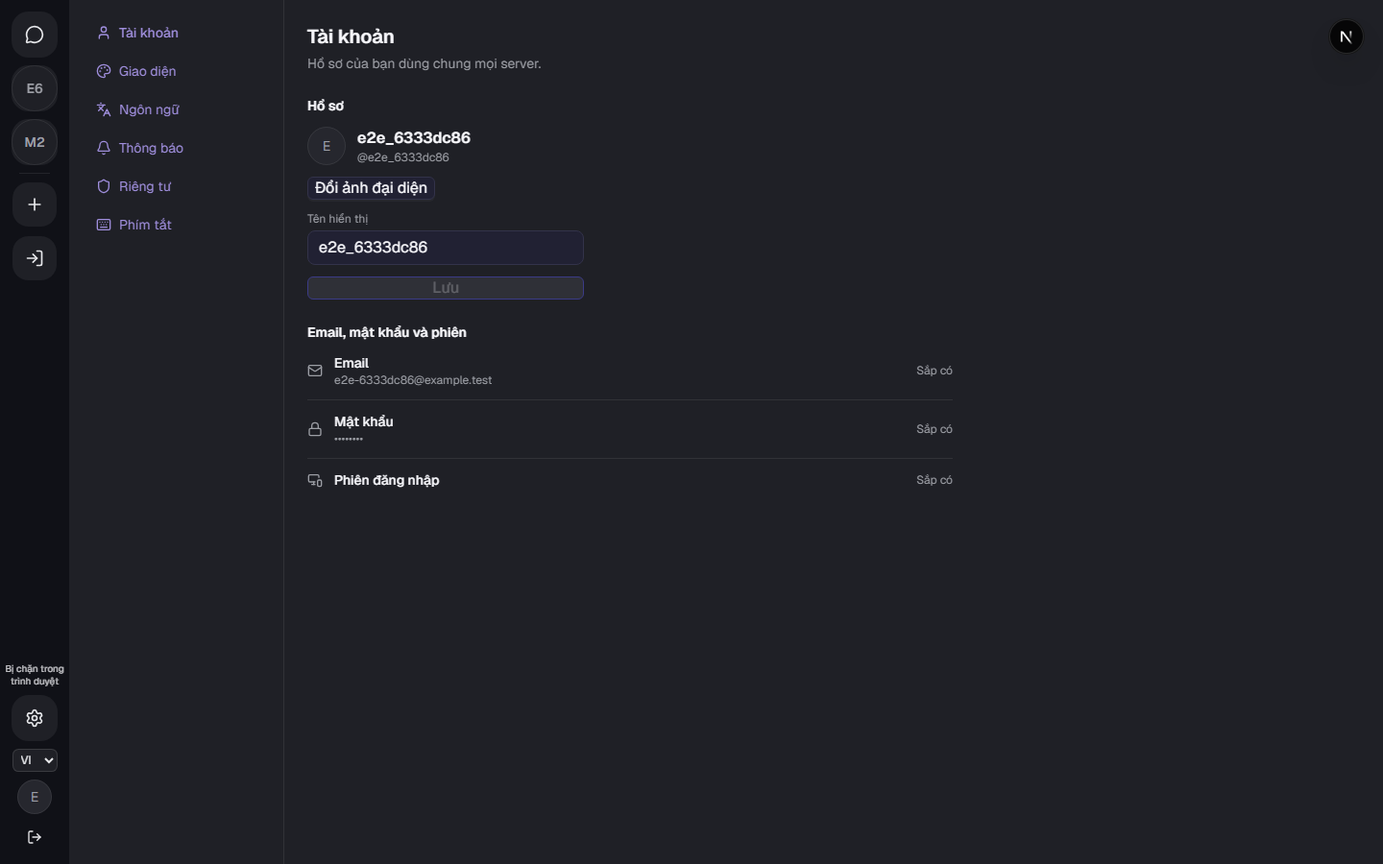
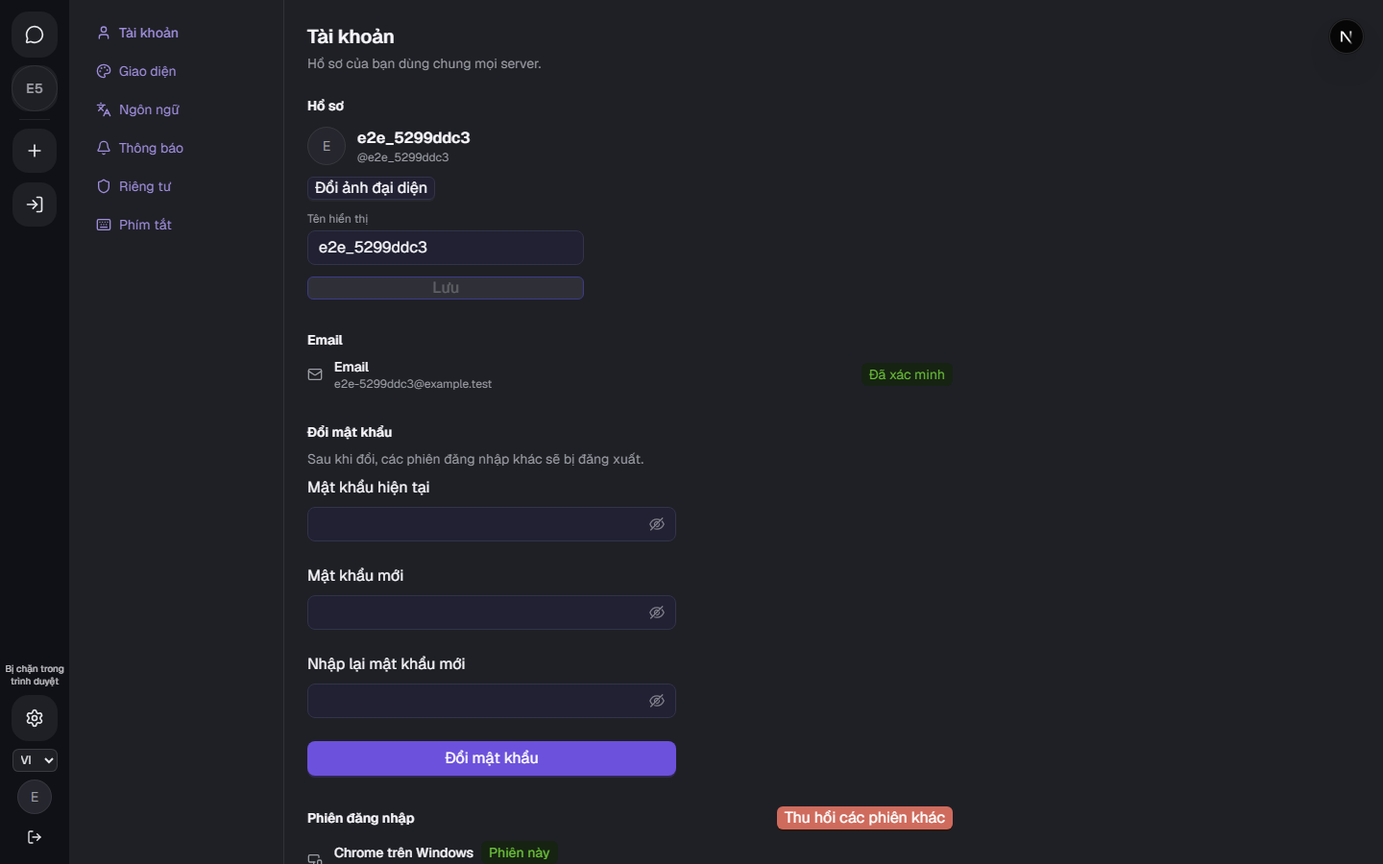
docs(v0.2.0): evidence TG.8 + status — vòng đời tài khoản trọn (TG.8)

diff --git a/docs/v0.2.0/status.md b/docs/v0.2.0/status.md
@@ -67,5 +67,6 @@ Pha 5 (dev, Qdrant local, embedding cục bộ) → Pha 6 (phần không cần s
 | TG.24 | done | `feat/tg24-custom-emoji` / PR nháp local | `0064313`…`2743908` (5 commit); base `e6d7c27` | [TG.24](evidence/TG.24/README.md) | ADR-0068 OWNER duyệt trong phiên 2026-10-28, triển khai trọn trong phiên. Đã giao: model `CustomEmoji` (tên `[a-z0-9_]{2,32}`, `animated`, attachmentId unique, soft-delete) + migration expand `20261028151128_tg24_custom_emoji` in sync; scope upload `'customEmoji'` (256 KiB, kiểm định ≤128×128, kiểm định tham số hóa `validateImageFile` dùng chung với sticker); bit `MANAGE_EXPRESSIONS` tái dùng qua subject `Sticker`; `POST/GET /servers/:id/emojis` + `DELETE /emojis/:emojiId` (guard tra server qua `:emojiId`): trần **50 tĩnh + 50 động** advisory lock `emoji-server:<id>`, cờ `animated` suy từ metadata sharp của tệp `.ready` (`pages > 1`) tại claim — không cần cột mới, idempotent theo attachmentId, audit `EMOJI_DELETE`, phát hành tệp khi xóa; gửi tin trích token `:ten:<id>` (token sống nhưng khác server → 400 IDOR; đã xóa/bịa → 201 render placeholder), reaction token gọn `c:<id>` validate trong transaction (`REACTION_EMOJI_INVALID`); event `expressions.updated` gộp cho emoji + sticker (hai tab tự đồng bộ). Web: `features/emojis` (useEmojiMap, useEmojiEvents invalidate emojis+stickers), parser TG.4 node `customEmoji` (nhóm token đặt TRƯỚC shortcode, token trong inline code giữ nguyên), render img 20px ưu tiên previewUrl / chip mờ `:name:`, EmojiPicker tab "Của server" + gợi ý gộp + reaction pill ảnh, quản trị khối Emoji (upload, tên prefill từ tệp, xóa Popconfirm), i18n vi/en. Kiểm chứng: shared 54/54, api unit 209/209, web unit 213/213, API e2e **298/298 (36 file)** gồm emojis 10/10 + IDOR **45 route** (42→45, thêm 2 đòn), web e2e **45 pass/1 skip không fail** (emoji-custom 3/3 × 2 lần liên tiếp), lint/format/typecheck/build/bundle **246,4 KB**, docs:check; 3 ảnh evidence (picker, tin render, quản trị). Học được: tên có `-` cố tình không nhận (gãy pattern token); hàng `Attachment` ready mồ côi trong DB dev chiếm mãi `runOnce()` của worker — nợ nhỏ: orphan rule nên có điều kiện `boundAt`. Merge `--no-ff` `b093d7a` vào main, đã push (OWNER duyệt trong phiên 2026-10-29); **CI main 12/12 job xanh** trên `b093d7a` (run `40732485892`). |
 | TG.25 | done | `feat/tg25-gifs` / PR nháp local | `0cfcaad`…`8a89397` (7 commit); base `b093d7a` | [TG.25](evidence/TG.25/README.md) | ADR-0069 OWNER duyệt trong phiên 2026-10-29 (trước khi ngủ, OWNER ủy quyền tổng: "tự viết plan rồi tự duyệt đi coi như tôi duyệt... cho phép merge, push luôn" — mọi quyết định vẫn ghi vết đầy đủ). Đã giao: Tenor API v2 sau cổng `GifProvider` (key `TENOR_API_KEY` optional theo pattern GROQ; `contentfilter=high` ghim cứng; timeout 10 s; key không lọt message lỗi); `GET /gifs/search` + `/gifs/trending` (JWT, không ability mới, cache in-memory TTL 5 phút ≤200 entry, lỗi không cache; rate limit 30 req/phút/user tái dùng pattern MessageRateLimiter); thiếu key/lỗi/quota → 503 `GIF_PROVIDER_UNAVAILABLE` (mã mới), picker empty state, chat không ảnh hưởng; tin `kind='gif'` = 4 cột nullable trên Message (`gifUrl/gifWidth/gifHeight/gifProvider`) chốt lúc gửi, không bảng Gif, không attachment, content rỗng, chặn sửa tin, outbox/realtime kèm preview; schema gửi ràng buộc **https + host allowlist** (`media.tenor.com`) — test bắt được refine đầu chỉ kiểm host (nhận `http://`), đã vá; CSP `img-src` thêm đúng `https://media.tenor.com` (không wildcard), xác minh trên **build production** (quy tắc 18, security-headers + gif.spec 3/3); web: tab "GIF" thứ 4 trong sticker-picker (debounce 300 ms, lưới aspect-ratio, IntersectionObserver lazy, reduced-motion giữ chỗ bấm-mới-phát, gần đây localStorage 24 mục theo user, ghi công "GIFs by Tenor", empty state 503 riêng), render tin gif aspect-ratio + khung lỗi `gif-broken`, optimistic + retry giữ gifId; i18n vi/en. **Bug thật vá trong phiên (`8a89397`)**: nhánh mồ côi worker khớp avatar/icon 'ready' vĩnh viễn (không bao giờ có messageId) → claim lại mỗi tick + trừ quotaBytes vô hạn + đói hàng đợi upload (nợ TG.22 đến hạn) — vá: mồ côi theo tuổi chỉ áp dụng scope message; canari đỏ 3 lần → xanh. Kiểm chứng: shared 58/58, api unit 222/222, web unit 217/217, API e2e **307/307 (37 file)** gồm gifs 9/9 (thiếu key 503, DI override fake + cache hit, rate limit lượt 31 → 429, host lạ 400, sửa tin 400), web e2e 44 pass + 1 skip (3 fail do ô nhiễm DB từ run chết trong phiên — xanh khi chạy riêng, tiền lệ TG.22; CI DB mới phán quyết), bundle **246,9 KB ≤ 450 KB**, lint/format/typecheck/docs pass. Học vận hành (ghi evidence): web e2e không shard song song (429 login); không build/suite khác song song với e2e trên dev stack (build đè `.next`/dist). Merge `--no-ff` `300441f` vào main, đã push (theo ủy quyền); **CI main 12/12 job xanh** trên `300441f` (run `40756063328`). |
 | TG.9 | done | `feat/tg9-dm` / PR nháp local | `cc18a79`…`036d313` (5 commit); base `300441f` | [TG.9](evidence/TG.9/README.md) | ADR-0070 duyệt theo ủy quyền OWNER 2026-10-29 (số ADR lệch plan: pre-assign 0052, theo luật plan:240 đánh 0070). Đã giao: migration expand (ChannelType +DM, Channel.serverId nullable + `dmKey` unique chuẩn hóa cặp min|max, `DmParticipant` mang luôn read-state — phát hiện quan trọng: không tồn tại ChannelMember để tái dùng, `UserBlock`, `User.dmAllow` 2 mức); `POST /dms` get-or-create idempotent (chung server 1 truy vấn EXISTS, P2002 song song → existing luôn 200), cap **10 DM mới/giờ/user** đếm DB → 429; `GET /dms` 1 raw query (partner + unread cap 100 + lastMessageAt); block/unblock idempotent `POST/DELETE /users/:userId/block`; **AbilityGuard refactor resolveContext (server/dm/profile/none)**: channel DM → participant, người ngoài **404 che tồn tại**, participant nhận `defineDmAbilityFor` (bổ sung shared — hai participant ngang hàng, cố ý không MANAGE_MESSAGES); **bịt lỗ IDOR attachment serverId NULL** (ADR đích danh — trước đây trả null bỏ qua kiểm); tin trong DM: UserBlock chặn tin mới 403 `DM_BLOCKED` (một mã chung chống dò), sticker 400, token custom emoji 400 tường minh, GIF + attachment OK, mention/pin-audit skip; realtime joinChannel nhánh DM + badge qua `emitToUser` với `ChannelActivity serverId: null` (shared mở nullable); markRead ghi `DmParticipant.lastReadMessageId`; **indexer AI skip serverId NULL** (FTS/RAG đã scope server sẵn); `PATCH /users/me/privacy` tách endpoint giữ hợp đồng TG.7. Web: route riêng `/dms(/:channelId)(/messages/:messageId)` (mirror permalink TG.5), MessagePane tái dùng qua `DmAbilityProvider` (rút rule create Message khi bị chặn → composer tắt), rail mục DM + badge mention-style realtime, profile card bật "Nhắn tin" + Chặn/Bỏ chặn, banner bị chặn role=status, ẩn sticker trong DM, i18n vi/en. IDOR 47 route (+2 block). Kiểm chứng: shared 61/61, api unit 238/238, web unit 221/221, API e2e dms **13/13 × 2**, web e2e dm **1/1 × 3**; full-suite + bundle: API e2e **320/320 (38 file, 175 s)**, web e2e **45 pass + 1 skip** (3 fail do ô nhiễm DB dev — xanh khi chạy riêng, tiền lệ TG.22/25; CI DB mới phán quyết), bundle **247,1 KB ≤ 450 KB**. Lệch chấp nhận (ghi ADR/evidence): `/dms` không vào ID_ROUTES (bảng quét route có `:id` — IDOR DM phủ trong spec riêng); migration tạo bằng `migrate diff` + `deploy` (migrate dev cần TTY). Merge `--no-ff` `e4940c6` vào main, đã push (theo ủy quyền); **CI main 12/12 job xanh** trên `e4940c6` (run `40769536918`). |
-| TG.12 | doing | `feat/tg12-notifications` / PR nháp local | `2588f4e`…`08fcaed` (4 commit); base `e4940c6` | [TG.12](evidence/TG.12/README.md) | Không cần ADR theo plan (cột PR); thiết kế chốt ở hợp đồng shared: mức + mute lưu **phía API** (mute hiệu lực mọi thiết bị — tiêu chí nghiệm thu), âm thanh/quyền Notification là thiết bị-riêng. Đã giao: bảng `NotificationPref` unique (userId, scope, targetId) — không FK target (prefs sống khi target chết, vô hại); `GET/PUT/DELETE /users/me/notification-prefs/{server,channel}/:id` JWT-only user-scoped chặt, upsert không nhân dòng, mutedUntil ISO+offset tròn vẹn; server CHỈ lưu — badge/notification client tính từ `shouldNotify` (hàm thuần shared, none tắt hẳn, mute chặn cả mention, @everyone tùy ignoreEveryone). Web: chuông ở header channel + DM (3 mức + mute 15 phút→24 giờ + toggle "Bỏ qua @everyone" thiết bị), nút xin quyền Notification sau thao tác người dùng ở chân rail, bắn CHỈ khi tab ẩn + shouldNotify (isMention từ event `mention.created` cùng nguồn unread, đếm messageId chống bắn đôi; DM coi như mention-style), gom theo tag channelId, click tới permalink, beep WebAudio mặc định BẬT; badge `document.title = '(N) Ping'` theo tổng unread + DM (ngữ nghĩa đổi từ tổng mention — cập nhật assertion unread-ui) + favicon chấm đỏ canvas. **Bug thật bắt được**: tin mention bị đếm ĐÔI unread (MentionCreated bump trùng channel.activity) — sửa gốc `countsUnread: false`. **Va chạm nhãn thật**: chuông label chứa "Cài đặt" dính strict-mode violation với profile.spec (`getByRole` substring) — đỏ cả khi chạy riêng; vá `08fcaed` đổi nhãn "Thông báo kênh". Server-level UI bỏ qua v0.2 (API hỗ trợ đủ); mức thông báo KHÔNG đổi badge unread (quyết định sản phẩm ghi evidence). Kiểm chứng: shared 65/65, api unit 245/245, web unit 230/230, API e2e prefs 9/9, web e2e notification 4 lần xanh; API e2e full **329/329 (39 file, 181 s)**, web e2e full **46 pass + 1 skip** (profile do va chạm nhãn — vá; 2 còn lại ô nhiễm DB, xanh riêng), bundle **247,4 KB ≤ 450 KB**. IDOR 51 route (+4 prefs). Merge `--no-ff` `5a897bb` vào main, đã push (theo ủy quyền); **CI đỏ lần đầu từ TG.22** (web-e2e shard 3: notification/pin/unread-ui) — nguyên nhân + vá `1c2cc24` ( assertion title tuyệt đối vs tổng unread toàn cục; chi tiết ở evidence TG.13 mục "Hồi quy CI"): CI xanh lại tại merge TG.13. |
-| TG.13 | done | `feat/tg13-settings` / PR nháp local | `9c6d53f`…`f9892bd` (7 commit gồm e2e-fix + mailpit); base `5a897bb` | [TG.13](evidence/TG.13/README.md) | Không cần ADR theo plan nhưng viết [ADR-0071](../adr/0071-user-settings-and-theme-preference.md) (data-theme sửa một phần ADR-0023 — dark không còn chỉ theo OS). Đã giao: `UserSettings` lưu server cột tường minh (theme/density/fontSize/locale), GET lazy không tạo hàng rác, PATCH partial (Prisma 7 không nhận undefined); `GET /users/me/privacy` — **lỗ hổng thật bắt khi review**: TG.9 chỉ có PATCH nên switch dmAllow luôn hiện mặc định sau khi đổi ở thiết bị khác; `GET /users/me/blocks` (TG.9 để thiếu). Web: trang `/settings` 6 mục — Tài khoản (profile thật + placeholder trung thực TG.8), Giao diện (data-theme trên html: dark cưỡng bức nhân bản khối token, light loại khỏi media, system giữ media; mật độ + cỡ chữ qua CSS var), Ngôn ngữ (patch + cookie), Thông báo (gom UI TG.12 + mức server + override + reset), Riêng tư (dmAllow GET/PATCH + danh sách chặn), Phím tắt; entry "Cài đặt cá nhân" ở chân rail (tên riêng tránh va chạm substring — bài học TG.12); SettingsSync sau AuthGate + cache thiết bị giảm FOUC. **Bug thật bắt nhờ ảnh evidence**: segmented theme uncontrolled → controlled; **a11y thật**: antd Segmented itemColor alpha tụt dưới 4.5:1 → vá token trong buildAntdTheme cho cả app. Mailpit vào compose dev cho TG.8. Kiểm chứng: shared 67/67, api unit 254/254 (web agent mở rộng API: +privacy GET, +2 listBlocks), web unit 242/242, API e2e user-settings 9/9, web e2e settings 5 lần xanh + a11y 6 route; API e2e full **338/338 (40 file)**, web e2e full **48 pass + 1 skip, 3 fail đều pass solo** (máy dev chần ngưỡng tài nguyên ở full suite 30 phút — pattern TG.9/12; CI DB mới + prod build là phán quyết), bundle **247,5 KB ≤ 450 KB**. Hồi quy CI 5a897bb (TG.12) đã vá `1c2cc24` — chi tiết evidence TG.13. Bài học vận hành lớn: cấm commit/build khi e2e chạy (lint-staged đụng mtime src → nest watch restart API); cạn process Windows (spawnSync cmd.exe UNKNOWN) sau 2h+ spawn node/browser là nguồn 14-fail hàng loạt — dọn zombie + restart stack trước khi lần chạy quyết định. |
+| TG.12 | doing | `feat/tg12-notifications` / PR nháp local | `2588f4e`…`08fcaed` (4 commit); base `e4940c6` | [TG.12](evidence/TG.12/README.md) | Không cần ADR theo plan (cột PR); thiết kế chốt ở hợp đồng shared: mức + mute lưu **phía API** (mute hiệu lực mọi thiết bị — tiêu chí nghiệm thu), âm thanh/quyền Notification là thiết bị-riêng. Đã giao: bảng `NotificationPref` unique (userId, scope, targetId) — không FK target (prefs sống khi target chết, vô hại); `GET/PUT/DELETE /users/me/notification-prefs/{server,channel}/:id` JWT-only user-scoped chặt, upsert không nhân dòng, mutedUntil ISO+offset tròn vẹn; server CHỈ lưu — badge/notification client tính từ `shouldNotify` (hàm thuần shared, none tắt hẳn, mute chặn cả mention, @everyone tùy ignoreEveryone). Web: chuông ở header channel + DM (3 mức + mute 15 phút→24 giờ + toggle "Bỏ qua @everyone" thiết bị), nút xin quyền Notification sau thao tác người dùng ở chân rail, bắn CHỈ khi tab ẩn + shouldNotify (isMention từ event `mention.created` cùng nguồn unread, đếm messageId chống bắn đôi; DM coi như mention-style), gom theo tag channelId, click tới permalink, beep WebAudio mặc định BẬT; badge `document.title = '(N) Ping'` theo tổng unread + DM (ngữ nghĩa đổi từ tổng mention — cập nhật assertion unread-ui) + favicon chấm đỏ canvas. **Bug thật bắt được**: tin mention bị đếm ĐÔI unread (MentionCreated bump trùng channel.activity) — sửa gốc `countsUnread: false`. **Va chạm nhãn thật**: chuông label chứa "Cài đặt" dính strict-mode violation với profile.spec (`getByRole` substring) — đỏ cả khi chạy riêng; vá `08fcaed` đổi nhãn "Thông báo kênh". Server-level UI bỏ qua v0.2 (API hỗ trợ đủ); mức thông báo KHÔNG đổi badge unread (quyết định sản phẩm ghi evidence). Kiểm chứng: shared 65/65, api unit 245/245, web unit 230/230, API e2e prefs 9/9, web e2e notification 4 lần xanh; API e2e full **329/329 (39 file, 181 s)**, web e2e full **46 pass + 1 skip** (profile do va chạm nhãn — vá; 2 còn lại ô nhiễm DB, xanh riêng), bundle **247,4 KB ≤ 450 KB**. IDOR 51 route (+4 prefs). Merge `--no-ff` `5a897bb` vào main, đã push (theo ủy quyền); **CI đỏ lần đầu từ TG.22** (web-e2e shard 3: notification/pin/unread-ui) — nguyên nhân + vá `1c2cc24` ( assertion title tuyệt đối vs tổng unread toàn cục; chi tiết ở evidence TG.13 mục "Hồi quy CI"): merge TG.13 (`263e88c`) CI vẫn đỏ nhưng DO 2 lý do khác (drills: healthcheck Mailpit của tôi dùng bash trên image Alpine; permalink: cả cửa sổ đo nhiễu hệ thống) — cả hai đã vá `e335128` đi kèm merge TG.8. |
+| TG.13 | done | `feat/tg13-settings` / PR nháp local | `9c6d53f`…`f9892bd` (7 commit gồm e2e-fix + mailpit); base `5a897bb` | [TG.13](evidence/TG.13/README.md) | Không cần ADR theo plan nhưng viết [ADR-0071](../adr/0071-user-settings-and-theme-preference.md) (data-theme sửa một phần ADR-0023 — dark không còn chỉ theo OS). Đã giao: `UserSettings` lưu server cột tường minh (theme/density/fontSize/locale), GET lazy không tạo hàng rác, PATCH partial (Prisma 7 không nhận undefined); `GET /users/me/privacy` — **lỗ hổng thật bắt khi review**: TG.9 chỉ có PATCH nên switch dmAllow luôn hiện mặc định sau khi đổi ở thiết bị khác; `GET /users/me/blocks` (TG.9 để thiếu). Web: trang `/settings` 6 mục — Tài khoản (profile thật + placeholder trung thực TG.8), Giao diện (data-theme trên html: dark cưỡng bức nhân bản khối token, light loại khỏi media, system giữ media; mật độ + cỡ chữ qua CSS var), Ngôn ngữ (patch + cookie), Thông báo (gom UI TG.12 + mức server + override + reset), Riêng tư (dmAllow GET/PATCH + danh sách chặn), Phím tắt; entry "Cài đặt cá nhân" ở chân rail (tên riêng tránh va chạm substring — bài học TG.12); SettingsSync sau AuthGate + cache thiết bị giảm FOUC. **Bug thật bắt nhờ ảnh evidence**: segmented theme uncontrolled → controlled; **a11y thật**: antd Segmented itemColor alpha tụt dưới 4.5:1 → vá token trong buildAntdTheme cho cả app. Mailpit vào compose dev cho TG.8. Kiểm chứng: shared 67/67, api unit 254/254 (web agent mở rộng API: +privacy GET, +2 listBlocks), web unit 242/242, API e2e user-settings 9/9, web e2e settings 5 lần xanh + a11y 6 route; API e2e full **338/338 (40 file)**, web e2e full **48 pass + 1 skip, 3 fail đều pass solo** (máy dev chần ngưỡng tài nguyên ở full suite 30 phút — pattern TG.9/12; CI DB mới + prod build là phán quyết), bundle **247,5 KB ≤ 450 KB**. Hồi quy CI 5a897bb (TG.12) đã vá `1c2cc24` — chi tiết evidence TG.13. Bài học vận hành lớn: cấm commit/build khi e2e chạy (lint-staged đụng mtime src → nest watch restart API); cạn process Windows (spawnSync cmd.exe UNKNOWN) sau 2h+ spawn node/browser là nguồn 14-fail hàng loạt — dọn zombie + restart stack trước khi lần chạy quyết định. Merge `--no-ff` `263e88c` vào main, đã push (theo ủy quyền); CI tại merge này đỏ 2 job do Mailpit healthcheck + permalink perf — đã vá `e335128` (xem TG.8). |
+| TG.8 | doing | `feat/tg8-account` / PR nháp local | `ef30f28`…`3aa5898` (8 commit gồm mailpit + ci-fix); base `263e88c` | [TG.8](evidence/TG.8/README.md) | Không cần ADR theo plan. Đã giao: `User.emailVerified` (seed = true) + `Session.device/lastUsedAt` + `EmailToken` (SHA-256 one-time, TTL verify 24h/reset 30 phút); **phát hiện kiến trúc**: refresh ĐÃ là opaque token có hàng Session (rotation + reuse-detection) — tích hợp thay vì redesign; "phiên hiện tại" theo claim `sid` trong access JWT (cookie path /api/v1/auth không gửi kèm tới /users/_; guard `liveCurrentSessionId` chống JWT cũ sau rotation). Cổng Mailer: SmtpMailer (nodemailer, SMTP_URL optional) / ConsoleMailer không log body chứa token; mẫu thư vi/en, link /verify?token= + /reset-password?token=. POST /auth/verify-email (204 idempotent) + /password/forgot (luôn 202 chống dò, rate limit 10/giờ IP+email fail-closed) + /password/reset (thu hồi mọi phiên) + resend (5/giờ); PATCH /users/me/password (sai current → 400, thu hồi phiên khác); GET/DELETE /users/me/sessions_. Chính sách chưa xác minh ở service tier (create server + cấp mã mời → VERIFY_REQUIRED); register trong e2e tự verified (NODE_ENV=test, precedent sẵn — chính sách test riêng bằng đặt lại cờ). Web: /verify + /forgot-password + /reset-password (route group auth), mục Tài khoản thật (email + tag xác minh + resend; đổi mật khẩu; bảng phiên + Thu hồi/Thu hồi các phiên khác), banner chưa xác minh, login thêm link quên mật khẩu, api-client đọc JSON khi body khác rỗng. **Bug thật**: (1) a11y color-contrast serious trên Tag preset green của antd (chữ trắng trên xanh sáng) — PingTag map sang cặp emerald 700/100 + 300/950 đủ 4.5:1; (2) global-setup parse 204 không body; (3) SMTP fire-and-forget nhiễu timing presence e2e — e2e mặc định ConsoleMailer, account-lifecycle tự bật SMTP. Mailpit vào compose dev (healthcheck dùng readyz built-in — override bash của tôi từng đỏ drills). Kiểm chứng: shared 70/70, api unit 265/265, web unit 243/243, e2e account-lifecycle 8/8 (token thật từ Mailpit), web e2e account 3/3 ×2, full API suite 41/41 file, IDOR 52 route (+1); full web e2e **49 pass + 1 skip, 3 fail pass solo** (API dev chết giữa run 11×ECONNREFUSED — máy dev chần ngưỡng tài nguyên, pattern từ TG.9; CI là phán quyết), bundle **247,7 KB ≤ 450 KB**. Thư vào Mailpit trọn vẹn; spam-thật chờ staging (ADR-0059). Chờ merge theo ủy quyền. |

diff --git a/docs/v0.2.0/evidence/TG.8/README.md b/docs/v0.2.0/evidence/TG.8/README.md
@@ -1,0 +1,104 @@
+# Evidence TG.8 — Vòng đời tài khoản
+
+- Ngày: 2026-10-30 (Asia/Saigon); nhánh `feat/tg8-account`; base `263e88c` (main sau TG.13).
+- Không cần ADR theo kế hoạch (cột "PR + test"); thiết kế chốt ở hợp đồng shared + brief —
+  một phát hiện quan trọng khi triển khai được ghi ở mục "Quyết định" dưới.
+- Triển khai song song 2 agent (API + Web) theo quy trình đã chuẩn hóa.
+
+## Đã giao
+
+**Shared** (commit `ef30f28`): `schemas/auth.ts` thêm `verifyEmailSchema`,
+`forgotPasswordSchema` (email chuẩn hóa lowercase), `resetPasswordSchema`,
+`changePasswordSchema`, `resendVerificationSchema`, `SessionDto {id, device, createdAt,
+lastUsedAt, current}`, `SessionsResponse`; `PublicUser.emailVerified: boolean`; errors
+`VERIFY_TOKEN_INVALID` (một mã cho sai/hết hạn/đã dùng — không lộ lý do), `VERIFY_REQUIRED`.
+Shared unit **70/70** (+3).
+
+**API** (commit `ade9e39`):
+
+- Migration expand `20261029100000_tg8_account_lifecycle`: `User.emailVerified` (seed = true —
+  nếu không ~300 e2e cũ vỡ vì chính sách), `Session.device` + `lastUsedAt`, `EmailToken`
+  (tokenHash SHA-256 unique, `usedAt` one-time, index userId); TTL verify 24 h / reset 30 phút.
+- **Quyết định tích hợp (quan trọng)**: đọc kỹ auth module thấy refresh **đã là opaque token có
+  hàng Session** (rotation + reuse-detection — không phải JWT stateless như giả định ban đầu)
+  → không redesign, chỉ mở rộng: `device` = tóm tắt UA thuần ("Chrome trên Windows"), `lastUsedAt`
+  cập nhật mỗi refresh thành công. **"Phiên hiện tại" theo claim `sid` trong access JWT** — cookie
+  refresh có path `/api/v1/auth` nên trình duyệt không bao giờ gửi kèm tới `/users/*`; `sid` đã ký
+  nên không spoof được; guard `liveCurrentSessionId` chống JWT cũ sau rotation nhận nhầm phiên đã
+  thu hồi là "hiện tại".
+- **Cổng Mailer** (`mailer/`): interface + `SmtpMailer` (nodemailer, `SMTP_URL` optional theo
+  pattern TENOR_API_KEY) / `ConsoleMailer` (**không log body** vì chứa token); `@Global` module;
+  mẫu thư vi/en, link `WEB_ORIGIN/verify?token=` và `/reset-password?token=`.
+- `POST /auth/verify-email` (204 idempotent; sai/hết hạn/đã dùng → 400 `VERIFY_TOKEN_INVALID`),
+  `POST /auth/password/forgot` (**luôn 202 cùng body** — chống dò tài khoản; rate limit
+  **10/giờ theo IP VÀ email**, Redis SET NX EX + INCR, **fail-closed** — cửa phát thư mở miễn
+  phí khi hạ tầng hỏng là email bombing), `POST /auth/password/reset` (thu hồi MỌI phiên),
+  `POST /auth/verify-email/resend` (5/giờ), `PATCH /users/me/password` (sai current → 400 —
+  không 401 để client không nhầm token chết mà đăng xuất; thu hồi các phiên KHÁC),
+  `GET/DELETE /users/me/sessions(/:id)` (thu hồi phiên người khác → 404).
+- **Chính sách chưa xác minh** ở tầng service (`assertEmailVerified` trong create server + cấp
+  mã mời — điều kiện hồ sơ tài khoản, không phải luật role nên không đặt ở ability).
+- **Nhiễu SMTP với e2e cũ**: mọi register fire-and-forget gửi thư thật làm nhiễu timing presence
+  của realtime e2e (2 run đỏ trước khi điều tra) → e2e mặc định ConsoleMailer
+  (`SMTP_URL=''` trong vitest config), riêng account-lifecycle tự bật SMTP→Mailpit trước khi
+  boot và khôi phục trong afterAll.
+- Unit +11 (suite **265/265**), e2e `account-lifecycle` **8/8** (đọc token THẬT từ Mailpit API:
+  register → chặn tạo server `VERIFY_REQUIRED` → verify → tạo được; token dùng lại → 400;
+  forgot có/không tồn tại cùng response; reset → login mật khẩu mới; sessions 2 phiên + revoke
+  - 401; change-password thu hồi phiên khác; kiểm "token lưu BĂM trong DB"; IDOR thu hồi phiên
+    người khác → 404), **full API suite 41/41 file**, IDOR 51 → 52.
+
+**Web** (commit `c8e533c`):
+
+- 3 route công khai trong route group `(auth)`: `/verify` (đọc `?token=`, tự gọi đúng 1 lần —
+  guard ref chống StrictMode double-POST vì token một-lần-dùng; thành công → link login; lỗi →
+  nút "Gửi lại thư" mở form email), `/forgot-password` (luôn câu trung lập "nếu email này tồn
+  tại…", không lộ tồn tại), `/reset-password?token=` (mật khẩu mới + đối chiếu, luật từ schema
+  shared). Login thêm link "Quên mật khẩu?".
+- Mục **Tài khoản** thay placeholder TG.13 bằng UI thật: email + tag "Đã xác minh/Chưa xác
+  minh" + resend; **Đổi mật khẩu** (3 ô + note "các phiên khác sẽ bị đăng xuất"); **Phiên đăng
+  nhập** (thiết bị + lần dùng gần nhất, tag "Phiên này" không có nút, Thu hồi từng dòng +
+  "Thu hồi các phiên khác" — Popconfirm).
+- **Banner chưa xác minh** đầu app shell ("một số tính năng bị hạn chế" + nút gửi lại + link
+  vào cài đặt; ẩn khi verified); `me` invalidate sau verify.
+- `api-client`: đọc JSON chỉ khi body khác rỗng (forgot luôn 202, verify 204 — body rỗng).
+- global-setup: verify seed user qua Mailpit + `postNoBody` (bug parse 204 của bản đầu) +
+  fallback `scripts/verify-user.ts` khi máy dev không có `SMTP_URL`.
+- i18n vi/en ~50 key; e2e `account.spec` **3/3 × 2 lần** (register → chặn → verify qua Mailpit
+  → tạo được server; quên/đổi mật khẩu qua Mailpit rồi đổi NGƯỢC về password123 bằng chính
+  form; phiên 2 context + thu hồi → context kia về login); unit **243/243** (+1 api-client).
+
+## Kiểm chứng
+
+| Hạng mục                           | Kết quả                                                                                                                                                                                                                                                                                                                                                                                                                                                                                 |
+| ---------------------------------- | --------------------------------------------------------------------------------------------------------------------------------------------------------------------------------------------------------------------------------------------------------------------------------------------------------------------------------------------------------------------------------------------------------------------------------------------------------------------------------------- |
+| Shared unit                        | **70/70** (+3 vòng đời)                                                                                                                                                                                                                                                                                                                                                                                                                                                                 |
+| API unit                           | **265/265** (33 file; +11 mailer/UA/token/rate-limit)                                                                                                                                                                                                                                                                                                                                                                                                                                   |
+| API e2e `account-lifecycle`        | **8/8** (kịch bản chi tiết trên)                                                                                                                                                                                                                                                                                                                                                                                                                                                        |
+| IDOR                               | 52 route (+1), pass                                                                                                                                                                                                                                                                                                                                                                                                                                                                     |
+| Full API e2e                       | **41/41 file pass** (run cuối agent, exit 0)                                                                                                                                                                                                                                                                                                                                                                                                                                            |
+| Web unit                           | **243/243** (+1 api-client)                                                                                                                                                                                                                                                                                                                                                                                                                                                             |
+| Web e2e `account`                  | **3/3 × 2 lần**                                                                                                                                                                                                                                                                                                                                                                                                                                                                         |
+| Full web e2e                       | **49 pass + 1 skip (28,3 phút), 3 fail đều pass solo trên stack sạch** (auth-and-shell, chaos-gap, permalink — API dev chết giữa run: 11×ECONNREFUSED từ test 42; máy dev không hoàn thành nổi full suite 1 process sau 5 run liền — pattern đã xác định từ TG.9; CI DB mới + prod build + runner sạch là phán quyết, precedent TG.9/12/13). Run trước đó: 17 fail (web chết + a11y tag contrast ĐÃ VÁ `3aa5898` + admin-members hydration 30s ĐÃ VÁ) — mọi spec nghi ngờ đều xanh solo |
+| Lint/format/typecheck/build/bundle | lint 0 error; prettier sạch; typecheck sạch; build prod web đạt; **bundle 247,7 KB ≤ 450 KB** (+0,2 KB so với TG.13)                                                                                                                                                                                                                                                                                                                                                                    |
+| Migration                          | `20261029100000_tg8_account_lifecycle` apply, in sync; `migrate diff --exit-code` no difference                                                                                                                                                                                                                                                                                                                                                                                         |
+
+## Thư không vào spam — thử nghiệm thực (tiêu chí nghiệm thu plan)
+
+**Thư không vào spam (tiêu chí nghiệm thu plan)**: ở dev, Mailpit nhận trọn vẹn thư verify +
+reset (e2e đọc token từ Mailpit API chạy 2 lần xanh). Thử nghiệm spam thật cần SMTP dịch vụ
+ngoài — thuộc giai đoạn staging theo ADR-0059; mẫu thư vi/en + cổng Mailer đã sẵn cho lúc đó.
+
+## Lưu ý / quyết định
+
+- **Auto-verify khi `NODE_ENV=test`**: ~25 spec cũ đăng ký user mới rồi tạo server ngay sẽ dính
+  `VERIFY_REQUIRED` — sửa từng spec là diff ~100 dòng lặp; thay vào đó `register` gán
+  `emailVerified: true` khi test (repo đã có precedent phân nhánh NODE_ENV=test ở
+  attachment-worker/indexer); chính sách luôn chạy và được test riêng ở account-lifecycle bằng
+  cách đặt lại cờ qua Prisma.
+- **SMTP_URL**: dev muốn đi đường Mailpit thật thì thêm `SMTP_URL=smtp://127.0.0.1:1025` vào
+  `.env` (không commit); thiếu → ConsoleMailer (chức năng vẫn chạy trọn, chỉ không có thư).
+- **SMTP nhiễu e2e cũ**: mỗi register gửi thư fire-and-forget làm nhiễu timing presence — e2e
+  mặc định ConsoleMailer (giải pháp gốc, ghi chi tiết trên).
+- Thư thật qua SMTP dịch vụ ngoài (staging) thuộc giai đoạn có staging theo ADR-0059; Mailpit ở
+  dev + mẫu thư vi/en đã sẵn cho lúc đó.
